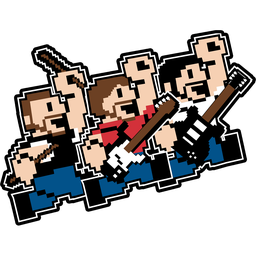
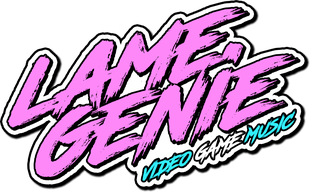
Use pink Lame Genie wordmark

diff --git a/index.html b/index.html
@@ -8,21 +8,21 @@
   <meta name="theme-color" content="#000000">
   <meta property="og:title" content="Kyle on Kit">
   <meta property="og:description" content="Drummer | Audio/Video Engineer | Gig Vlogs">
-  <meta property="og:image" content="assets/og-image.png?v=20261124140425">
+  <meta property="og:image" content="assets/og-image.png?v=20261124140814">
   <meta property="og:type" content="website">
   <meta name="twitter:card" content="summary_large_image">
-  <link rel="icon" type="image/png" href="assets/favicon.png?v=20261124140425">
-  <link rel="apple-touch-icon" href="assets/favicon.png?v=20261124140425">
+  <link rel="icon" type="image/png" href="assets/favicon.png?v=20261124140814">
+  <link rel="apple-touch-icon" href="assets/favicon.png?v=20261124140814">
   <link rel="preconnect" href="https://fonts.googleapis.com">
   <link rel="preconnect" href="https://fonts.gstatic.com" crossorigin>
   <link href="https://fonts.googleapis.com/css2?family=Montserrat:wght@500;700;900&display=swap" rel="stylesheet">
-  <link rel="stylesheet" href="style.css?v=20261124140425">
+  <link rel="stylesheet" href="style.css?v=20261124140814">
 </head>
 <body>
   <div class="glow" aria-hidden="true"></div>
   <main class="wrap">
     <header class="head">
-      <h1 class="logo"><img src="assets/logo.png?v=20261124140425" alt="Kyle on Kit" width="557" height="314"></h1>
+      <h1 class="logo"><img src="assets/logo.png?v=20261124140814" alt="Kyle on Kit" width="557" height="314"></h1>
       <p class="tagline" id="tagline"></p>
       <nav class="socials" id="socials" aria-label="Social profiles"></nav>
     </header>
@@ -31,14 +31,14 @@
 
     <section class="qr">
       <a href="https://kyleonkit.github.io" aria-label="kyleonkit.github.io">
-        <img src="assets/qr.png?v=20261124140425" alt="QR code for kyleonkit.github.io" width="180" height="180" loading="lazy">
+        <img src="assets/qr.png?v=20261124140814" alt="QR code for kyleonkit.github.io" width="180" height="180" loading="lazy">
       </a>
       <p class="qr-label">Share this page</p>
     </section>
     <footer class="foot" id="footer"></footer>
   </main>
 
-  <script src="links.js?v=20261124140425"></script>
-  <script src="app.js?v=20261124140425"></script>
+  <script src="links.js?v=20261124140814"></script>
+  <script src="app.js?v=20261124140814"></script>
 </body>
 </html>

diff --git a/links.js b/links.js
@@ -33,7 +33,8 @@ window.SITE = {
 
     {
       group: "Lame Genie",
-      logo: "assets/band-lame-genie.png?v=20261124140425",
+      logo: "assets/band-lame-genie.png?v=20261124140814",
+      logoStyle: "wide",
       subtitle: "Video game music covers",
       links: [
         // stat/statLabel → shown as a tile. Last updated 2026-11-24.
@@ -47,7 +48,7 @@ window.SITE = {
     },
     {
       group: "Run For Covers",
-      logo: "assets/band-run-for-covers.png?v=20261124140425",
+      logo: "assets/band-run-for-covers.png?v=20261124140814",
       logoStyle: "boxed",
       subtitle: "Your favorite cover band's favorite cover band",
       links: [

diff --git a/style.css b/style.css
@@ -216,6 +216,12 @@ body {
   height: 64px;
   object-fit: contain;
 }
+/* Wide wordmark: keep its shape, limit the width */
+.group-logo.wide {
+  width: auto;
+  max-width: 110px;
+  height: 64px;
+}
 /* Square artwork with its own background: rounded tile */
 .group-logo.boxed {
   border-radius: 12px;
